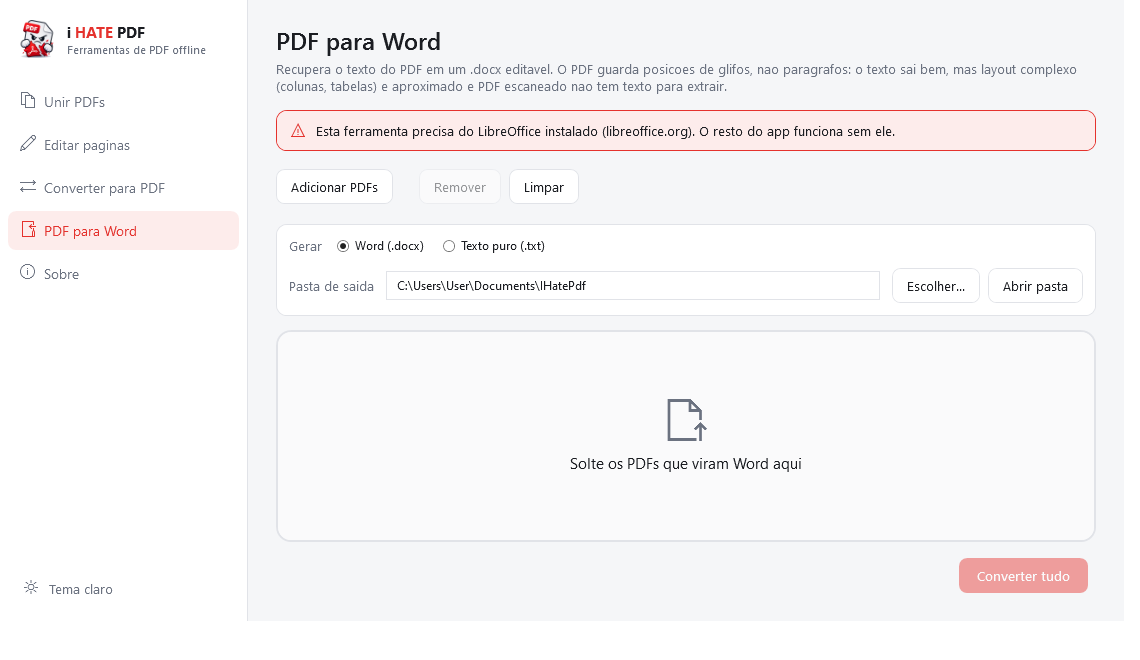
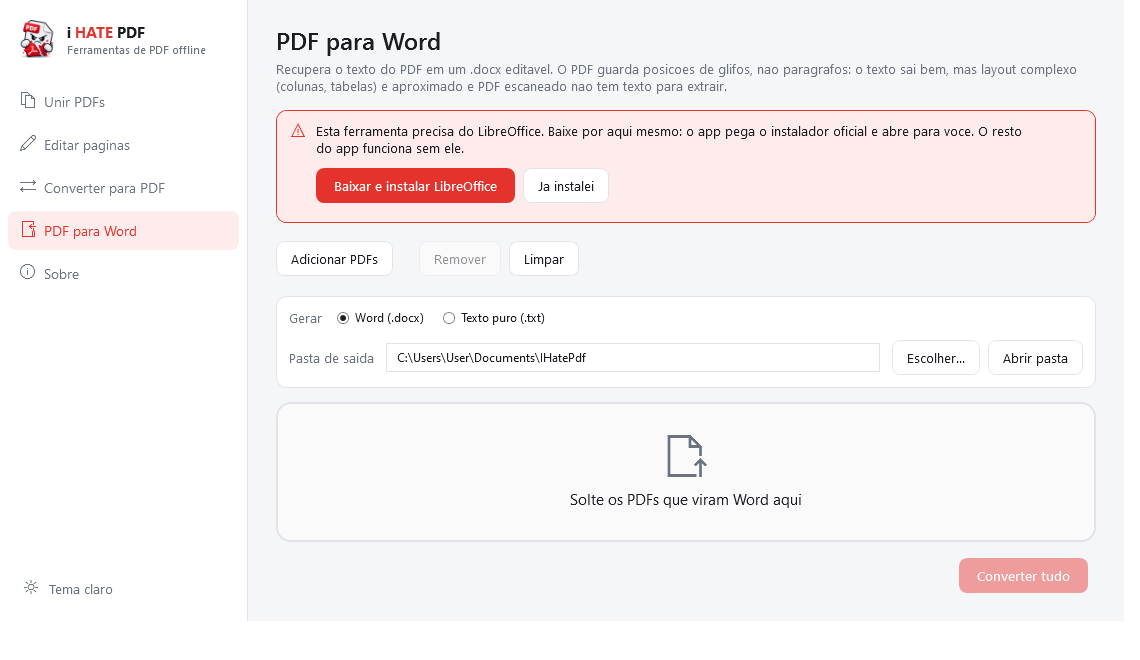
feat: baixar o LibreOffice de dentro do app
O aviso de dependencia ausente agora tem acao: o app le o diretorio
/stable/ da The Document Foundation, descobre a versao atual (nao fica
um link fixo envelhecendo no codigo), baixa o .msi com barra de
progresso e oferece abrir o instalador.

O download grava em .part e so renomeia ao final, para que uma
interrupcao nunca deixe um .msi truncado que o usuario tentaria
executar. Instalar continua sendo decisao do usuario: o app pergunta
antes e o Windows pede elevacao.

Tambem: "Ja instalei" reavalia a presenca do soffice sem reiniciar o app,
e o workflow deixa de empacotar os pdb das dependencias
(AllowedReferenceRelatedFileExtensions=none) — libSkiaSharp.pdb ainda
vinha no zip da 1.1.0.

diff --git a/Views/PdfToWordView.xaml b/Views/PdfToWordView.xaml
@@ -33,16 +33,45 @@
                 BorderBrush="{DynamicResource AccentBrush}"
                 BorderThickness="1"
                 Visibility="{Binding IsLibreOfficeMissing, Converter={StaticResource BoolToVisibility}}">
-            <StackPanel Orientation="Horizontal">
-                <TextBlock Text="&#xE7BA;" Style="{StaticResource GlyphText}"
-                           FontSize="15" VerticalAlignment="Center"
-                           Foreground="{DynamicResource AccentBrush}" />
-                <TextBlock Margin="10,0,0,0"
-                           VerticalAlignment="Center"
-                           FontSize="12.5"
+            <StackPanel>
+                <StackPanel Orientation="Horizontal">
+                    <TextBlock Text="&#xE7BA;" Style="{StaticResource GlyphText}"
+                               FontSize="15" VerticalAlignment="Top" Margin="0,1,0,0"
+                               Foreground="{DynamicResource AccentBrush}" />
+                    <TextBlock Margin="10,0,0,0"
+                               MaxWidth="720"
+                               HorizontalAlignment="Left"
+                               FontSize="12.5"
+                               TextWrapping="Wrap"
+                               Foreground="{DynamicResource TextPrimaryBrush}"
+                               Text="Esta ferramenta precisa do LibreOffice. Baixe por aqui mesmo: o app pega o instalador oficial e abre para voce. O resto do app funciona sem ele." />
+                </StackPanel>
+
+                <ProgressBar Height="4"
+                             Margin="25,12,0,0"
+                             Minimum="0" Maximum="100"
+                             Value="{Binding LibreOfficeProgress}"
+                             Foreground="{DynamicResource AccentBrush}"
+                             Background="{DynamicResource BorderBrushSoft}"
+                             BorderThickness="0"
+                             Visibility="{Binding IsDownloadingLibreOffice, Converter={StaticResource BoolToVisibility}}" />
+
+                <TextBlock Text="{Binding LibreOfficeStatus}"
+                           Margin="25,8,0,0"
+                           FontSize="11.5"
                            TextWrapping="Wrap"
-                           Foreground="{DynamicResource TextPrimaryBrush}"
-                           Text="Esta ferramenta precisa do LibreOffice instalado (libreoffice.org). O resto do app funciona sem ele." />
+                           Foreground="{DynamicResource TextSecondaryBrush}"
+                           Visibility="{Binding LibreOfficeStatus, Converter={StaticResource EmptyToVisibility}, ConverterParameter=invert}" />
+
+                <WrapPanel Margin="25,12,0,0">
+                    <Button Content="Baixar e instalar LibreOffice"
+                            Style="{StaticResource PrimaryButton}"
+                            IsEnabled="{Binding IsDownloadingLibreOffice, Converter={StaticResource InverseBool}}"
+                            Command="{Binding InstallLibreOfficeCommand}" />
+                    <Button Content="Ja instalei"
+                            Style="{StaticResource GhostButton}"
+                            Command="{Binding RecheckLibreOfficeCommand}" />
+                </WrapPanel>
             </StackPanel>
         </Border>
 

diff --git a/Services/LibreOfficeInstallerService.cs b/Services/LibreOfficeInstallerService.cs
@@ -1,0 +1,93 @@
+using System.Diagnostics;
+using System.Net.Http;
+using System.Text.RegularExpressions;
+
+namespace IHatePdf.Services;
+
+/// <summary>
+/// Descobre e baixa o instalador estavel do LibreOffice a partir do mirror
+/// oficial da The Document Foundation.
+///
+/// A versao nao e fixada no codigo: o diretorio /stable/ e lido e a maior
+/// versao encontrada e usada, senao o link envelheceria a cada release deles.
+/// </summary>
+public sealed partial class LibreOfficeInstallerService : ILibreOfficeInstallerService
+{
+    private const string StableIndex = "https://download.documentfoundation.org/libreoffice/stable/";
+
+    private readonly HttpClient _http = new() { Timeout = TimeSpan.FromMinutes(10) };
+
+    [GeneratedRegex(@"href=""(\d+\.\d+\.\d+)/""", RegexOptions.IgnoreCase)]
+    private static partial Regex VersionLink();
+
+    public async Task<LibreOfficeInstaller> FindLatestAsync(CancellationToken ct = default)
+    {
+        var index = await _http.GetStringAsync(StableIndex, ct).ConfigureAwait(false);
+
+        var version = VersionLink().Matches(index)
+            .Select(m => m.Groups[1].Value)
+            .Select(v => (Text: v, Parsed: Version.TryParse(v, out var p) ? p : null))
+            .Where(v => v.Parsed is not null)
+            .OrderByDescending(v => v.Parsed)
+            .Select(v => v.Text)
+            .FirstOrDefault()
+            ?? throw new ConversionException(
+                "Nao foi possivel descobrir a versao atual do LibreOffice. " +
+                "Baixe manualmente em libreoffice.org.");
+
+        var fileName = $"LibreOffice_{version}_Win_x86-64.msi";
+        var url = $"{StableIndex}{version}/win/x86_64/{fileName}";
+
+        return new LibreOfficeInstaller(version, url, fileName);
+    }
+
+    public async Task<string> DownloadAsync(
+        LibreOfficeInstaller installer,
+        IProgress<double>? progress = null,
+        CancellationToken ct = default)
+    {
+        var target = Path.Combine(
+            Environment.GetFolderPath(Environment.SpecialFolder.UserProfile),
+            "Downloads",
+            installer.FileName);
+
+        Directory.CreateDirectory(Path.GetDirectoryName(target)!);
+
+        using var response = await _http
+            .GetAsync(installer.Url, HttpCompletionOption.ResponseHeadersRead, ct)
+            .ConfigureAwait(false);
+        response.EnsureSuccessStatusCode();
+
+        var total = response.Content.Headers.ContentLength;
+        await using var source = await response.Content.ReadAsStreamAsync(ct).ConfigureAwait(false);
+
+        // Grava em .part e so renomeia no fim: um download interrompido nunca
+        // vira um .msi truncado que o usuario tentaria executar.
+        var partial = target + ".part";
+        await using (var destination = File.Create(partial))
+        {
+            var buffer = new byte[81920];
+            long received = 0;
+            int read;
+
+            while ((read = await source.ReadAsync(buffer, ct).ConfigureAwait(false)) > 0)
+            {
+                await destination.WriteAsync(buffer.AsMemory(0, read), ct).ConfigureAwait(false);
+                received += read;
+
+                if (total is > 0)
+                    progress?.Report(received * 100d / total.Value);
+            }
+        }
+
+        File.Move(partial, target, overwrite: true);
+        return target;
+    }
+
+    public void RunInstaller(string installerPath) =>
+        Process.Start(new ProcessStartInfo
+        {
+            FileName = installerPath,
+            UseShellExecute = true   // dispara o UAC; a instalacao e decisao do usuario
+        });
+}

diff --git a/ViewModels/PdfToWordViewModel.cs b/ViewModels/PdfToWordViewModel.cs
@@ -12,12 +12,17 @@ public sealed partial class PdfToWordViewModel : ViewModelBase
     private const string PdfFilter = "Documentos PDF (*.pdf)|*.pdf";
 
     private readonly IPdfExportService _exportService;
+    private readonly ILibreOfficeInstallerService _installerService;
     private readonly IDialogService _dialogService;
 
-    public PdfToWordViewModel(IPdfExportService exportService, IDialogService dialogService)
+    public PdfToWordViewModel(
+        IPdfExportService exportService,
+        ILibreOfficeInstallerService installerService,
+        IDialogService dialogService)
         : base("PDF para Word", "")
     {
         _exportService = exportService;
+        _installerService = installerService;
         _dialogService = dialogService;
 
         OutputFolder = Path.Combine(
@@ -39,6 +44,61 @@ public sealed partial class PdfToWordViewModel : ViewModelBase
 
     /// <summary>Sem LibreOffice esta tela nao funciona; a UI avisa antes da tentativa.</summary>
     public bool IsLibreOfficeMissing => !_exportService.IsAvailable;
+
+    // ===== Instalacao do LibreOffice sem sair do app =====
+
+    [ObservableProperty] private bool _isDownloadingLibreOffice;
+    [ObservableProperty] private double _libreOfficeProgress;
+    [ObservableProperty] private string _libreOfficeStatus = string.Empty;
+
+    /// <summary>Baixa o instalador e oferece abri-lo; instalar continua sendo decisao do usuario.</summary>
+    [RelayCommand]
+    private async Task InstallLibreOfficeAsync()
+    {
+        try
+        {
+            IsDownloadingLibreOffice = true;
+            LibreOfficeProgress = 0;
+            LibreOfficeStatus = "Procurando a versao atual...";
+
+            var installer = await _installerService.FindLatestAsync();
+            LibreOfficeStatus = $"Baixando LibreOffice {installer.Version} (cerca de 350 MB)...";
+
+            var progress = new Progress<double>(p => LibreOfficeProgress = p);
+            var file = await _installerService.DownloadAsync(installer, progress);
+
+            LibreOfficeStatus = $"Instalador salvo em {file}";
+
+            if (_dialogService.Confirm(
+                    "Instalador baixado",
+                    $"LibreOffice {installer.Version} foi baixado.{Environment.NewLine}{Environment.NewLine}" +
+                    "Abrir o instalador agora? O Windows vai pedir permissao de administrador."))
+            {
+                _installerService.RunInstaller(file);
+                LibreOfficeStatus = "Instalador aberto. Quando terminar, use \"Ja instalei\".";
+            }
+        }
+        catch (Exception ex)
+        {
+            LibreOfficeStatus = $"Falha ao baixar: {ex.Message}";
+            _dialogService.ShowError("Erro ao baixar o LibreOffice", ex.Message);
+        }
+        finally
+        {
+            IsDownloadingLibreOffice = false;
+        }
+    }
+
+    /// <summary>Reavalia a presenca do LibreOffice depois de uma instalacao.</summary>
+    [RelayCommand]
+    private void RecheckLibreOffice()
+    {
+        OnPropertyChanged(nameof(IsLibreOfficeMissing));
+
+        LibreOfficeStatus = _exportService.IsAvailable
+            ? "LibreOffice encontrado. A conversao esta liberada."
+            : "Ainda nao encontrei o LibreOffice. Se acabou de instalar, conclua a instalacao e tente de novo.";
+    }
 
     private PdfExportFormat Format => ExportAsWord ? PdfExportFormat.Word : PdfExportFormat.PlainText;
 

diff --git a/Services/ILibreOfficeInstallerService.cs b/Services/ILibreOfficeInstallerService.cs
@@ -1,0 +1,23 @@
+namespace IHatePdf.Services;
+
+/// <summary>Instalador do LibreOffice localizado para download dentro do app.</summary>
+/// <param name="Version">Versao estavel encontrada, ex.: "25.8.2".</param>
+/// <param name="Url">URL direta do .msi para Windows x64.</param>
+/// <param name="FileName">Nome do arquivo a gravar.</param>
+public sealed record LibreOfficeInstaller(string Version, string Url, string FileName);
+
+/// <summary>
+/// Baixa o instalador do LibreOffice sem tirar o usuario do app.
+/// O app nao instala nada sozinho: ele entrega o instalador e o usuario decide.
+/// </summary>
+public interface ILibreOfficeInstallerService
+{
+    /// <summary>Descobre a versao estavel atual no servidor da The Document Foundation.</summary>
+    Task<LibreOfficeInstaller> FindLatestAsync(CancellationToken ct = default);
+
+    /// <summary>Baixa o .msi para a pasta Downloads e devolve o caminho local.</summary>
+    Task<string> DownloadAsync(LibreOfficeInstaller installer, IProgress<double>? progress = null, CancellationToken ct = default);
+
+    /// <summary>Abre o instalador baixado (o Windows pedira elevacao).</summary>
+    void RunInstaller(string installerPath);
+}

diff --git a/App.xaml.cs b/App.xaml.cs
@@ -51,6 +51,7 @@ public partial class App : Application
         services.AddSingleton<IDialogService, DialogService>();
         services.AddSingleton<IUpdateService, GitHubUpdateService>();
         services.AddSingleton<IPdfExportService, PdfExportService>();
+        services.AddSingleton<ILibreOfficeInstallerService, LibreOfficeInstallerService>();
 
         // Estrategias de conversao: trocar LibreOfficeConverter por um conversor
         // Syncfusion aqui muda o backend de DOCX/XLSX sem tocar no resto do app.

diff --git a/README.md b/README.md
@@ -81,7 +81,7 @@ Recupera o texto de um PDF em um `.docx` editável (ou `.txt` puro), importando 
 
 O pacote é **self-contained**: não precisa instalar o .NET.
 
-> **DOCX e XLSX** precisam do [LibreOffice](https://www.libreoffice.org) instalado. O app acha o `soffice.exe` sozinho (registro, Program Files e PATH). Sem ele, TXT e todas as ferramentas de PDF continuam funcionando normalmente.
+> **DOCX, XLSX e PDF → Word** precisam do [LibreOffice](https://www.libreoffice.org). Você não precisa sair do app para isso: a tela **PDF para Word** tem um botão que descobre a versão estável atual, baixa o instalador oficial com barra de progresso e o abre para você. O app acha o `soffice.exe` sozinho depois (registro, Program Files e PATH). Sem ele, TXT e todas as ferramentas de PDF continuam funcionando normalmente.
 
 ### Atualizar
 
